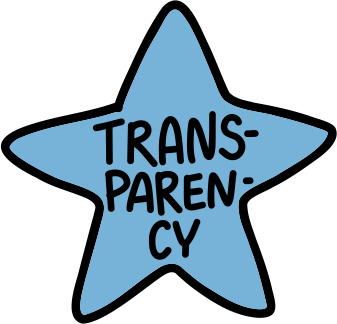
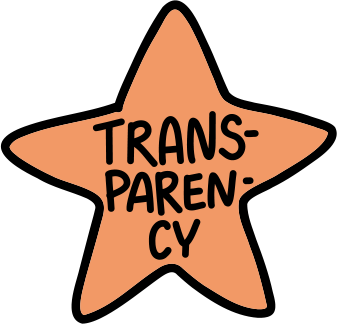
Orange star set, flat blue graph background, and a titled/grid legend
Swaps all 10 hub stars for the new orange-colored versions. Replaces
the graph background with a flat color a step darker than the page
background (tried an illustrated sky first, wasn't wanted). Legend
now has "People" as its own title row with names below in a CSS grid
so they stack in flush, evenly-aligned columns instead of wrapping as
ragged pills.

diff --git a/src/components/Legend.jsx b/src/components/Legend.jsx
@@ -4,24 +4,26 @@ export function Legend({ pinnedPersonId, hoveredPersonId, onPersonClick }) {
   return (
     <div className="legend">
       <span className="legend-title">People</span>
-      {ALL_PEOPLE.map((p) => {
-        const isPinned = pinnedPersonId === p.id;
-        const isHovered = hoveredPersonId === p.id;
-        // hovering always wins the visual highlight over a pinned selection, so only one
-        // row lights up at a time even when a different person is pinned
-        const isHighlighted = hoveredPersonId ? isHovered : isPinned;
-        return (
-          <button
-            className={`legend-row ${isHighlighted ? "is-pinned" : ""}`}
-            key={p.id}
-            onClick={() => onPersonClick(p.id)}
-            style={isHighlighted ? { color: p.color } : undefined}
-          >
-            <span className="legend-dot" style={{ background: p.color }} />
-            {p.name}
-          </button>
-        );
-      })}
+      <div className="legend-grid">
+        {ALL_PEOPLE.map((p) => {
+          const isPinned = pinnedPersonId === p.id;
+          const isHovered = hoveredPersonId === p.id;
+          // hovering always wins the visual highlight over a pinned selection, so only one
+          // row lights up at a time even when a different person is pinned
+          const isHighlighted = hoveredPersonId ? isHovered : isPinned;
+          return (
+            <button
+              className={`legend-row ${isHighlighted ? "is-pinned" : ""}`}
+              key={p.id}
+              onClick={() => onPersonClick(p.id)}
+              style={isHighlighted ? { color: p.color } : undefined}
+            >
+              <span className="legend-dot" style={{ background: p.color }} />
+              {p.name}
+            </button>
+          );
+        })}
+      </div>
     </div>
   );
 }

diff --git a/src/App.css b/src/App.css
@@ -320,7 +320,7 @@ html, body, #root {
 .graph-svg {
   width: 100%;
   height: 100%;
-  background: #FFFFFF;
+  background: #E4F0FA;
   border-radius: 16px;
   border: 1px solid #D8ECF8;
   touch-action: none;
@@ -401,19 +401,23 @@ html, body, #root {
   border: 1px solid #D8ECF8;
   border-radius: 14px;
   padding: 14px 18px;
-  display: flex;
-  flex-wrap: wrap;
-  align-items: center;
-  gap: 4px 8px;
 }
 
 .legend-title {
   display: block;
-  font-size: 11px;
+  font-size: 12px;
   font-weight: 700;
   letter-spacing: 0.08em;
   color: #55606B;
-  margin-right: 6px;
+  margin-bottom: 8px;
+}
+
+/* flush columns of equal width, so names stack neatly in line with each other instead
+   of wrapping into a ragged row of variable-width pills */
+.legend-grid {
+  display: grid;
+  grid-template-columns: repeat(auto-fill, minmax(150px, 1fr));
+  gap: 2px 4px;
 }
 
 .legend-row {
@@ -424,11 +428,12 @@ html, body, #root {
   color: #1A1A1A;
   background: none;
   border: none;
-  padding: 6px 10px;
-  border-radius: 20px;
+  padding: 6px 8px;
+  border-radius: 6px;
   cursor: pointer;
   font-family: 'DM Sans', sans-serif;
   white-space: nowrap;
+  text-align: left;
   transition: background 0.15s ease, color 0.15s ease;
 }
 
@@ -449,7 +454,8 @@ html, body, #root {
 }
 
 @media (max-width: 720px) {
-  .legend { padding: 12px 14px; gap: 2px 4px; }
+  .legend { padding: 12px 14px; }
+  .legend-grid { grid-template-columns: repeat(auto-fill, minmax(120px, 1fr)); }
   .legend-row { padding: 5px 8px; font-size: 12px; }
 }
 
